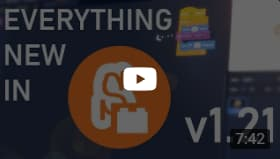
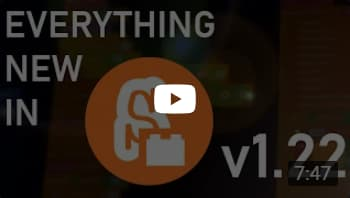
Add YouTube video link and thumbnail to v1.22 update notification

diff --git a/content-scripts/cs.js b/content-scripts/cs.js
@@ -477,7 +477,7 @@ const showBanner = () => {
     line-height: 1em;`,
   });
   const notifImageLink = Object.assign(document.createElement("a"), {
-    href: "https://www.youtube.com/watch?v=QnvgB5ILZCg",
+    href: "https://www.youtube.com/watch?v=9y4IsQLz3rk",
     target: "_blank",
     rel: "noopener",
     referrerPolicy: "strict-origin-when-cross-origin",
